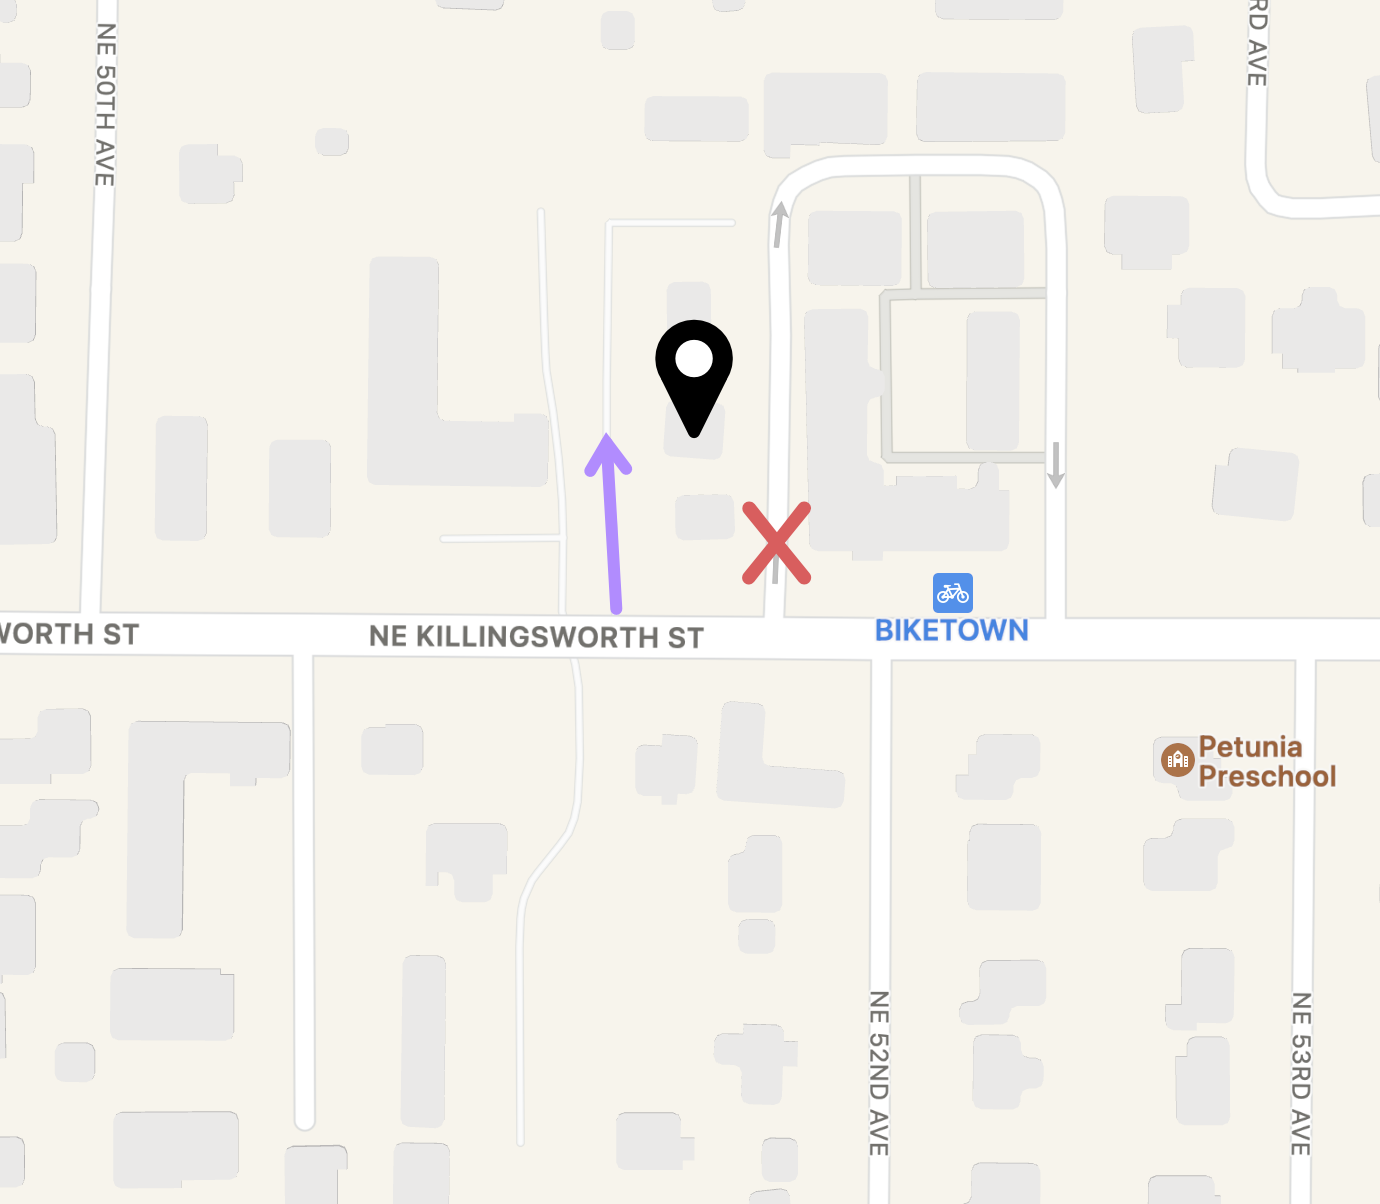
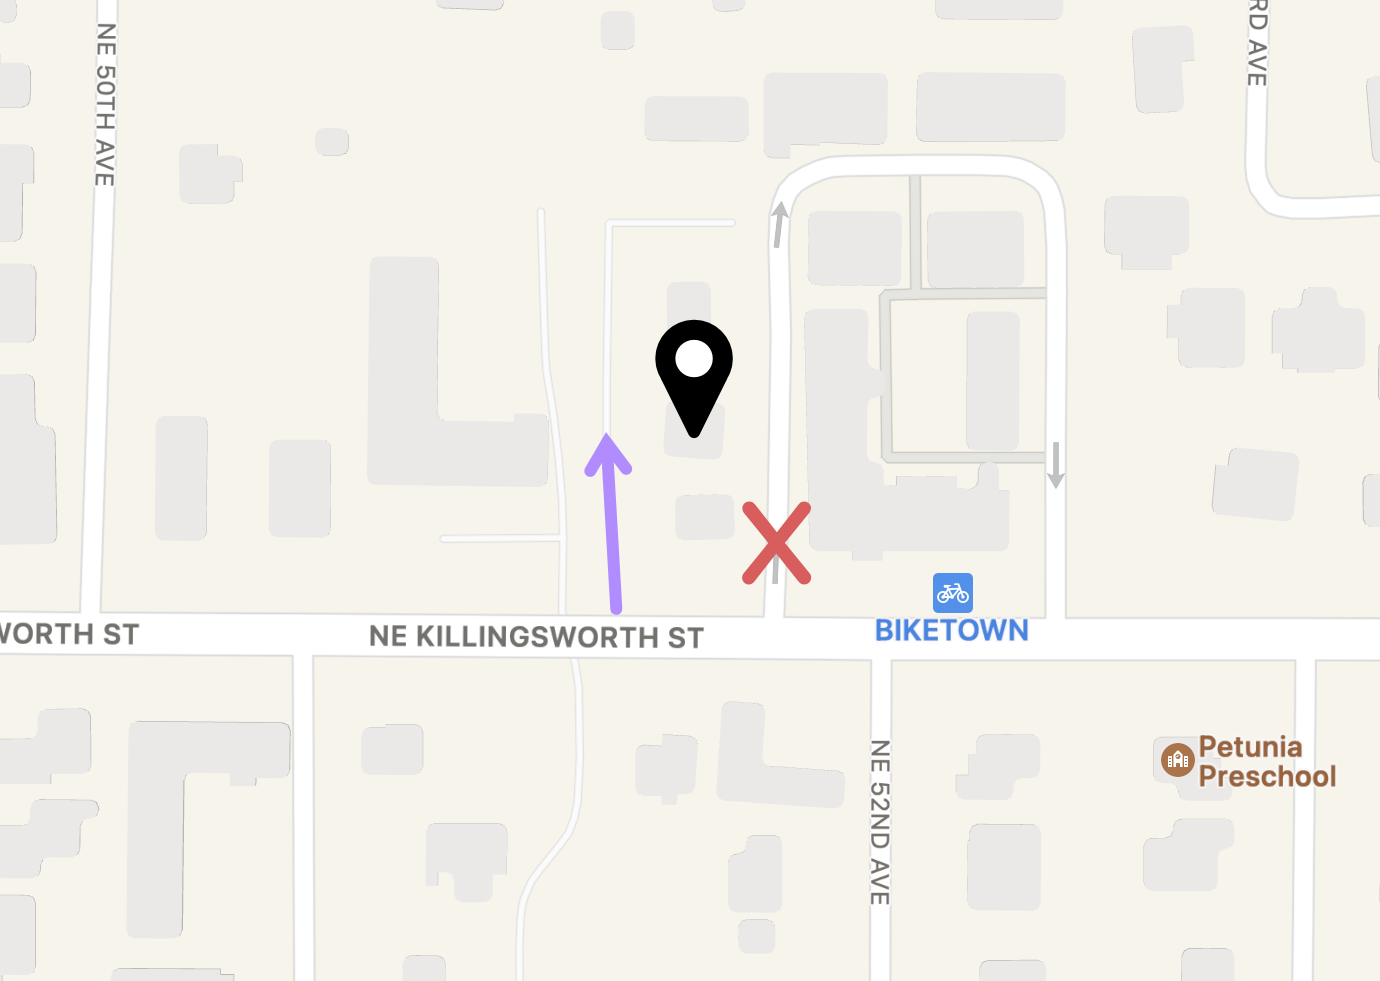
updated directions now that google fixed the house address

diff --git a/_includes/getting-here.html b/_includes/getting-here.html
@@ -1,8 +1,6 @@
 <div class="getting-here">
   <h3>Getting Here</h3>
 
-  <p>Things are a little bit weird with the house and the address and <strong>stupid</strong> Google Maps, but we get ahead of ourselves. First, you need the address:</p>
-
   <p class="address">
     5133 NE Killingsworth St<br/>
     Portland, OR 97218<br/><br/>
@@ -12,7 +10,7 @@
 
   <img class="img-responsive getting-here" src="/images/directions-map.png">
 
-  <p>As you can see, the address is on Killingsworth, but the house is one back on the north side of the street down a little driveway. The address shows up correctly on Google and Apple Maps, but if you use Google Maps <em>directions</em> it will tell you to turn down the wrong driveway and lead you totally astray! It's frustrating, let me tell you. Apple Maps directions will tell exactly (and correctly!) where to go. If Google Maps is your only option, you're better off just pulling up the address and then driving/walking toward it. Do not trust the directions! Also, according to Google Maps, you access my house from NE 50th Place, even though that's not actually a city street.</p>
+  <p>As you can see, the address is on Killingsworth but the house is one back on the north side of the street down a little unmarked driveway. You can trust Google and Apple Map directions, so just follow along and you'll be just fine.</p>
 
   <h3>Parking</h3>
 
